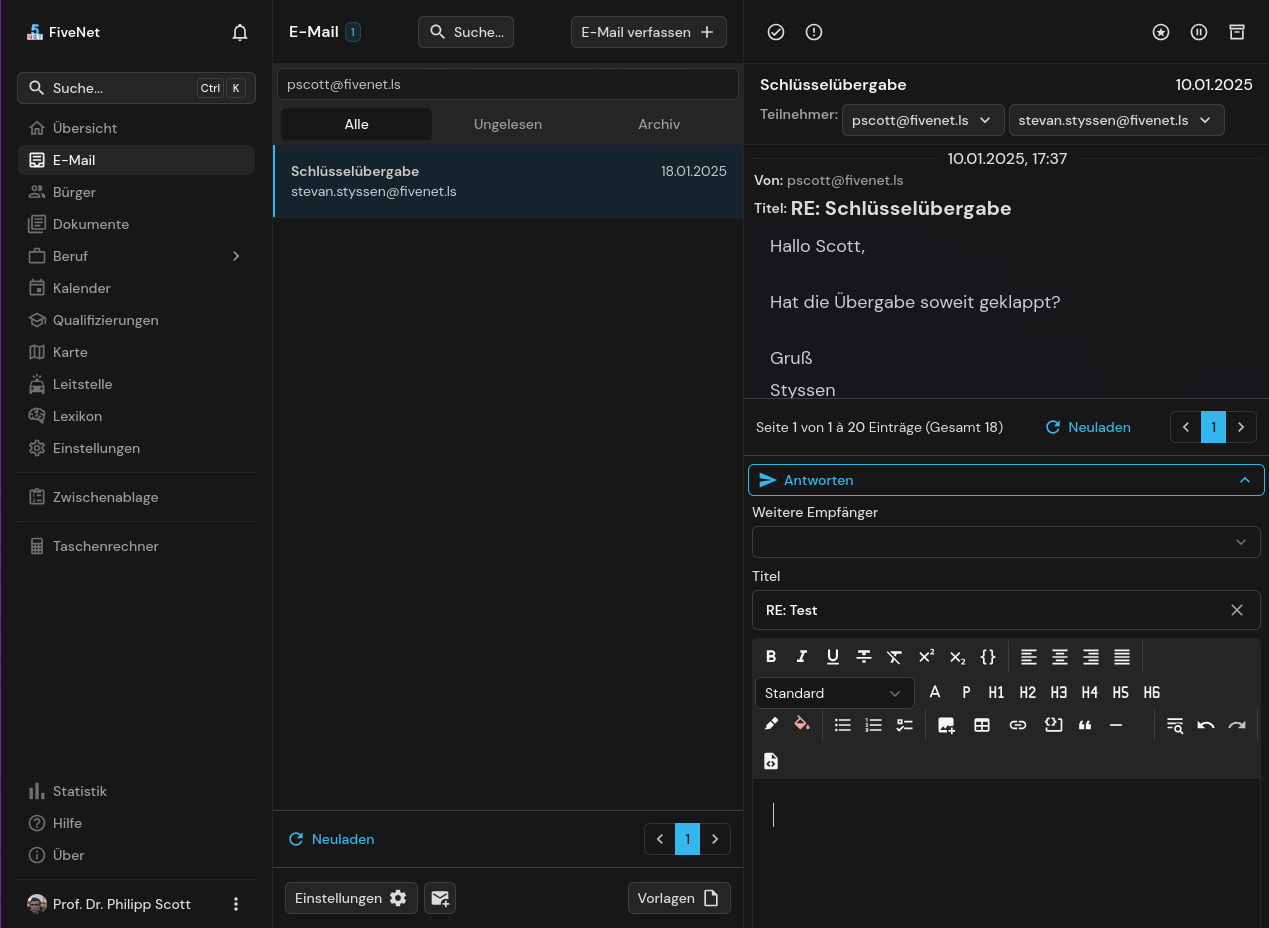
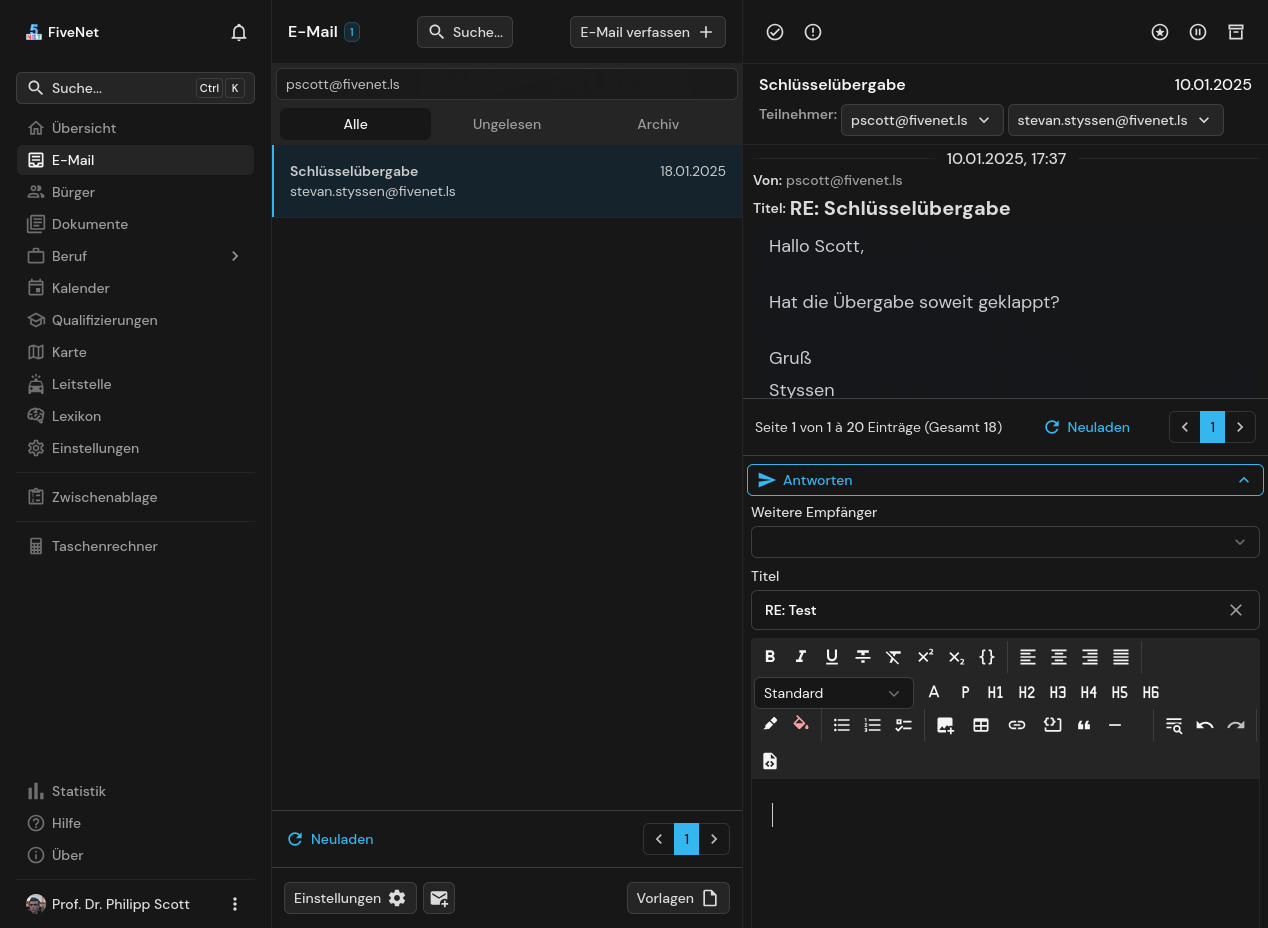
fix: remove pixel border from mailer screenshot

diff --git a/content/3.user-guides/0.index.md b/content/3.user-guides/0.index.md
@@ -1,0 +1,9 @@
+---
+title: User Guides
+---
+
+This section contains information about FiveNet features, and guides, tipps and tricks around them.
+
+::callout{icon="i-mdi-info-slab-circle"}
+Please note that some screenshots might not be uptodate with the latest changes of FiveNet.
+::
